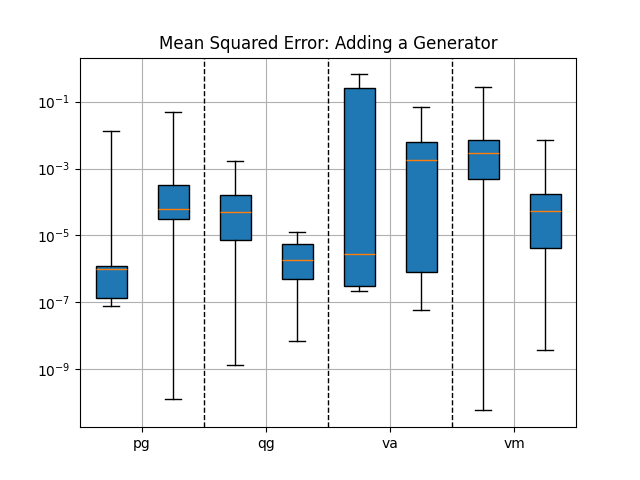
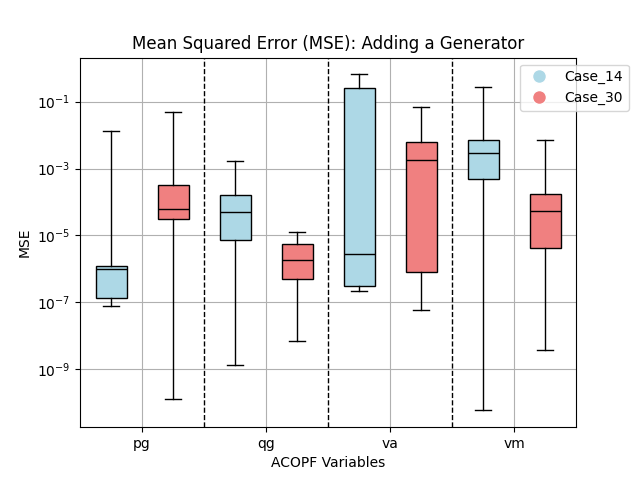
adding legend, colors, axis labels

diff --git a/plots/MSE_data_gen.py b/plots/MSE_data_gen.py
@@ -190,15 +190,18 @@ for i in range(2):
 positions = np.array([0, 1, 2, 3, 4, 5, 6, 7])
 
 fig, ax = plt.subplots()
-ax.bxp(stats, positions=positions, patch_artist=True)
+bp = ax.bxp(stats, positions=positions, patch_artist=True)
 
-colors = ['lightblue', 'lightgreen', 'lightcoral', 'lightyellow', 
-          'lightblue', 'lightgreen', 'lightcoral', 'lightyellow',
-          'lightblue', 'lightgreen', 'lightcoral', 'lightyellow',
-          'lightblue', 'lightgreen', 'lightcoral', 'lightyellow']
+colors = ['lightblue', 'lightcoral',
+          'lightblue', 'lightcoral',
+          'lightblue', 'lightcoral',
+          'lightblue', 'lightcoral']
 
-for i, box in enumerate(ax.artists):
+for i, box in enumerate(bp['boxes']):
     box.set_facecolor(colors[i])
+
+for median in bp['medians']:
+    median.set_color('black')
 
 ax.set_xticks([0.5, 2.5, 4.5, 6.5])  
 ax.set_xticklabels(['pg', 'qg', 'va', 'vm'])
@@ -207,7 +210,19 @@ for pos in [1.5, 3.5, 5.5]:
     ax.axvline(x=pos, color='black', linestyle='--', linewidth=1)
 
 plt.yscale('log')
+
+ax.set_xlabel('ACOPF Variables')
+ax.set_ylabel('MSE')
+
 plt.grid(True)
-plt.title('Mean Squared Error: Adding a Generator')
+
+legend_labels = ['Case_14', 'Case_30']
+legend_colors = ['lightblue', 'lightcoral']
+handles = [plt.Line2D([0], [0], marker='o', color='w', label=label, 
+                       markerfacecolor=color, markersize=10) for label, color in zip(legend_labels, legend_colors)]
+
+ax.legend(handles=handles, loc='upper right', bbox_to_anchor=(1.12, 1))
+
+plt.title('Mean Squared Error (MSE): Adding a Generator')
 plt.savefig(f'mse_gen.png')
 plt.show()
